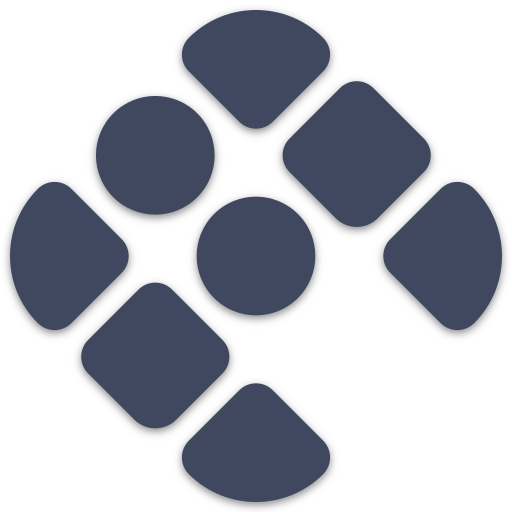
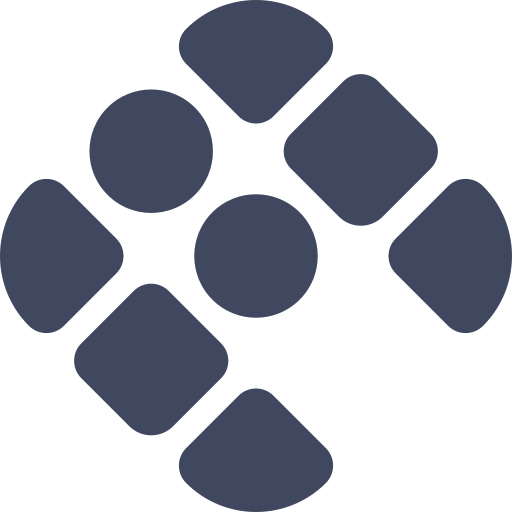
v2.1.4
update favicon and analytics tag location

diff --git a/public/index.html b/public/index.html
@@ -1,31 +1,28 @@
 <!DOCTYPE html>
 <html lang="en">
   <head>
+    <script async src="https://www.googletagmanager.com/gtag/js?id=G-DWMZLN8WCR"></script>
+    <script>
+    window.dataLayer = window.dataLayer || [];
+    function gtag(){dataLayer.push(arguments);}
+    gtag('js', new Date());
+
+    gtag('config', 'G-DWMZLN8WCR');
+    </script>
     <meta charset="utf-8" />
-    <link rel="icon" href="%PUBLIC_URL%/favicon.ico" />
     <link rel="apple-touch-icon" sizes="180x180" href="/apple-touch-icon.png">
     <link rel="icon" type="image/png" sizes="32x32" href="/favicon-32x32.png">
     <link rel="icon" type="image/png" sizes="16x16" href="/favicon-16x16.png">
     <link rel="manifest" href="/site.webmanifest">
     <link rel="mask-icon" href="/safari-pinned-tab.svg" color="#3f485f">
-    <meta name="msapplication-TileColor" content="#9f00a7">
+    <meta name="msapplication-TileColor" content="#00aba9">
     <meta name="msapplication-TileImage" content="/mstile-144x144.png">
-    <meta name="theme-color" content="#e8d6c2">
     <meta name="viewport" content="width=device-width, initial-scale=1" />
     <title>Elias Mj&oslash;en</title>
   </head>
   <body>
     <noscript>You need to enable JavaScript to run this app.</noscript>
     <div id="root"></div>
-    <!-- Google tag (gtag.js) -->
-<script async src="https://www.googletagmanager.com/gtag/js?id=G-DWMZLN8WCR"></script>
-<script>
-  window.dataLayer = window.dataLayer || [];
-  function gtag(){dataLayer.push(arguments);}
-  gtag('js', new Date());
-
-  gtag('config', 'G-DWMZLN8WCR');
-</script>
     <script src="https://kit.fontawesome.com/bd09c4cd5e.js" crossorigin="anonymous"></script>
   </body>
 </html>
